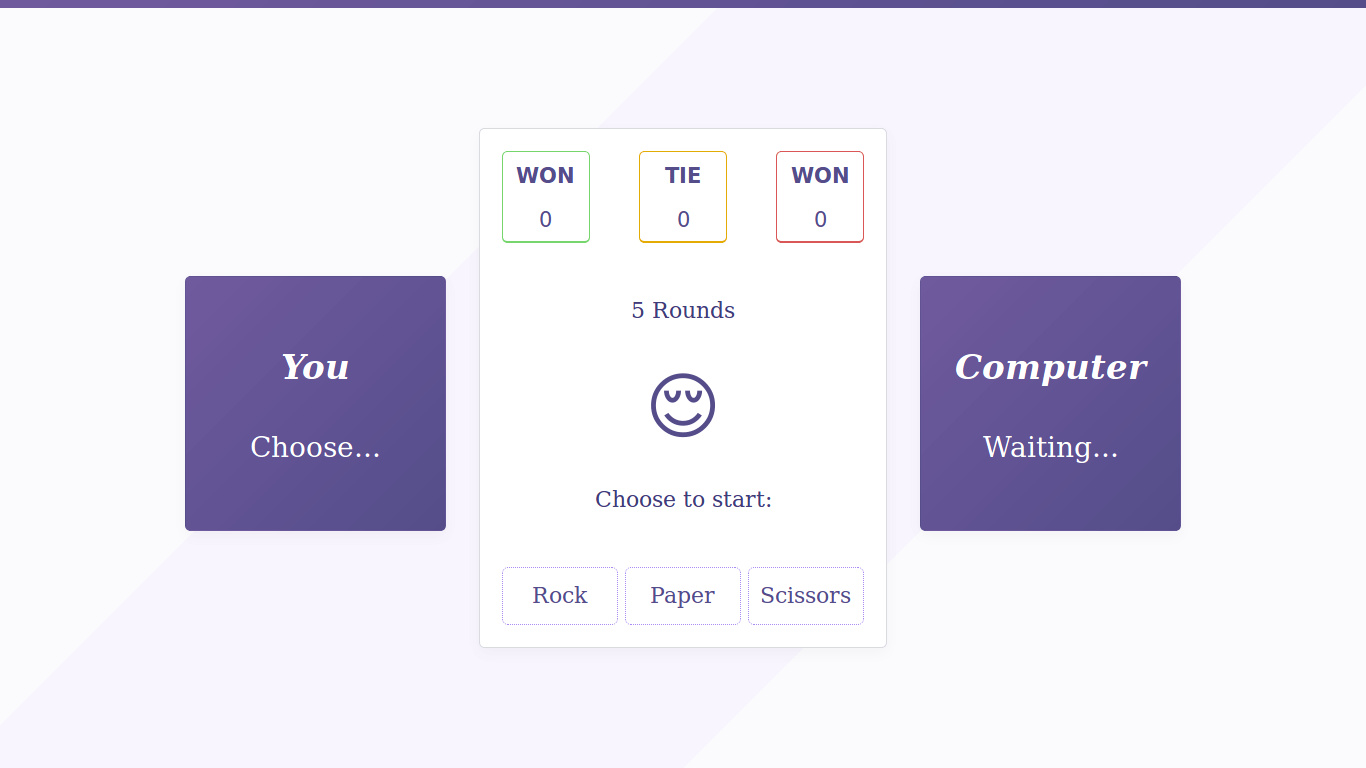
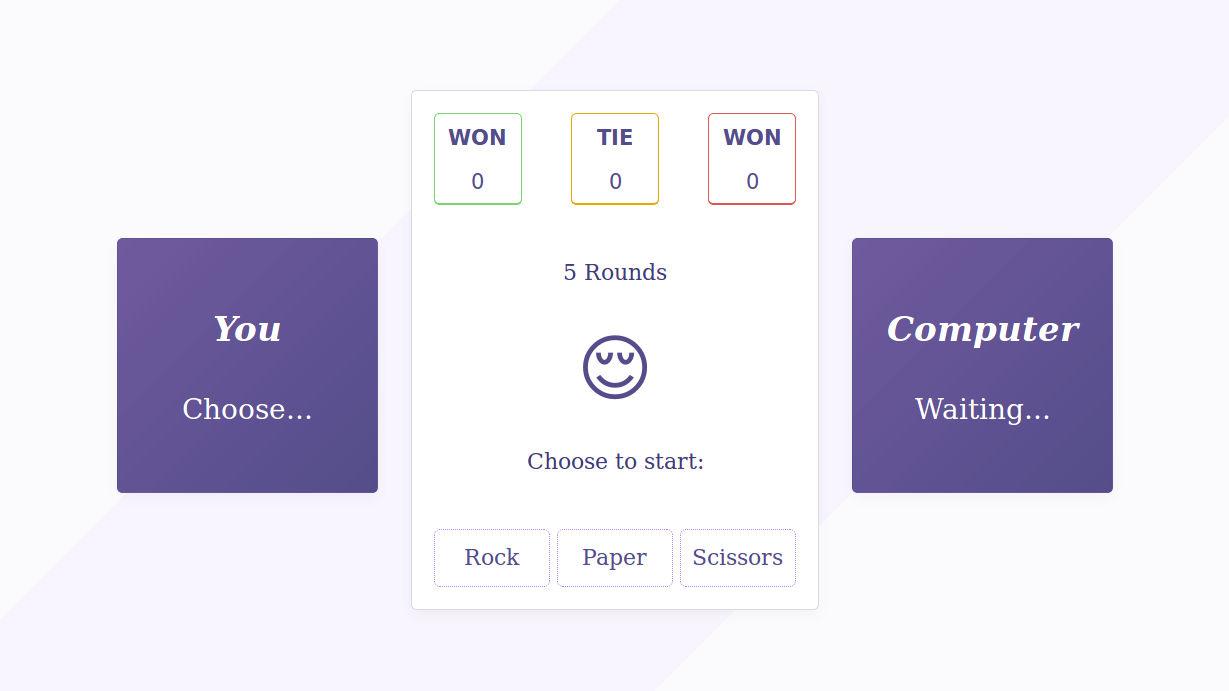
Update rps-screenshot.png
Cut image and remove css scaling.

diff --git a/source/assets/stylesheets/sections/_selected-projects.scss b/source/assets/stylesheets/sections/_selected-projects.scss
@@ -492,10 +492,6 @@ $project-image-transition: all .3s ease-in-out;
   filter: grayscale(.65);
 }
 
-.image--rock-paper-scissors {
-  transform: scale(1.15);
-}
-
 
 // Section Footer
 
